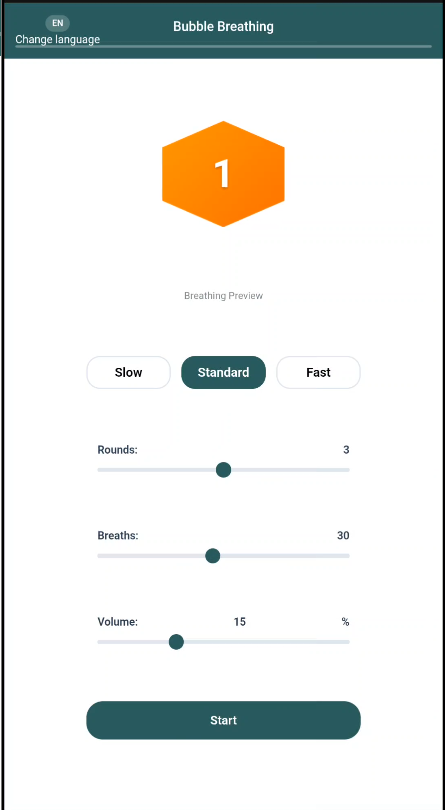
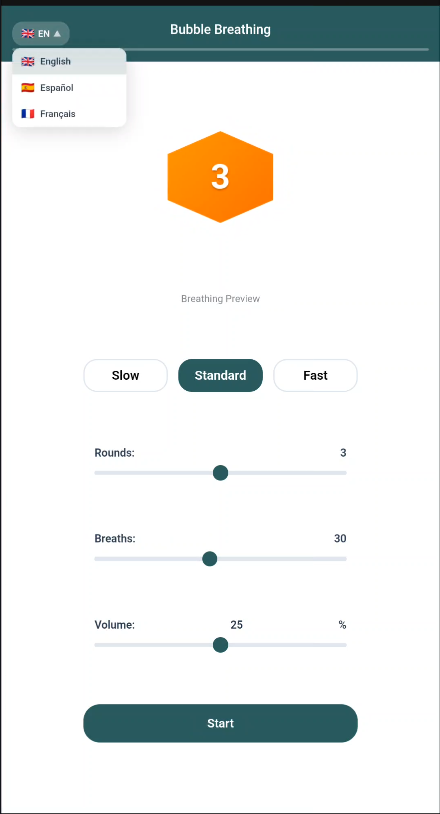
updated readme and screenshots

diff --git a/README.md b/README.md
@@ -24,7 +24,7 @@ An immersive, app-like web application for guided rhythmic breathing exercises. 
 - **Structured Recovery Breath:** Following each breath-hold, the app guides you through a controlled 15-second recovery breath to help you normalize before the next round.
 - **Flexible Control:** Skip the main breathing phase or the recovery breath at any time with dedicated buttons, giving you full control over your session.
 - **Session Summary:** At the end of your session, review your retention times for each round and your overall average time.
-- **Bilingual Support:** Seamlessly switch between English and Spanish. Your language preference is saved in your browser for your next visit.
+- **Multilingual Support:** Seamlessly switch between English, Spanish, and French using an intuitive dropdown menu. Your language preference is saved for your next visit.
 - **Immersive, App-Like Interface:** A fully fluid and adaptive design that provides a native app feel. The layout intelligently scales and distributes itself to perfectly fit any screen size, from wide desktop monitors to tall mobile screens, completely avoiding scrollbars and common mobile viewport issues.
 
 ### 🚀 How to Use
@@ -75,7 +75,7 @@ Una aplicación web inmersiva de tipo nativo para ejercicios de respiración rí
 - **Respiración de Recuperación Estructurada:** Tras cada apnea, la aplicación te guía a través de una respiración de recuperación controlada de 15 segundos para ayudarte a normalizarte antes de la siguiente ronda.
 - **Control Flexible:** Salta la fase principal de respiración o la respiración de recuperación en cualquier momento con botones dedicados, dándote control total sobre tu sesión.
 - **Resumen de la Sesión:** Al final de tu sesión, revisa tus tiempos de retención para cada ronda y tu tiempo promedio general.
-- **Soporte Bilingüe:** Cambia fácilmente entre inglés y español. Tu preferencia de idioma se guarda en tu navegador para tu próxima visita.
+- **Soporte Multilingüe:** Cambia fácilmente entre inglés, español y francés usando un menú desplegable intuitivo. Tu preferencia de idioma se guarda para tu próxima visita.
 - **Interfaz Inmersiva tipo App:** Un diseño totalmente fluido y adaptativo que proporciona una sensación de aplicación nativa. El layout se escala y distribuye de forma inteligente para ajustarse perfectamente a cualquier tamaño de pantalla, desde monitores anchos de escritorio hasta pantallas altas de móviles, evitando por completo las barras de scroll y los problemas comunes de los viewports móviles.
 
 ### 🚀 Cómo Usarlo
